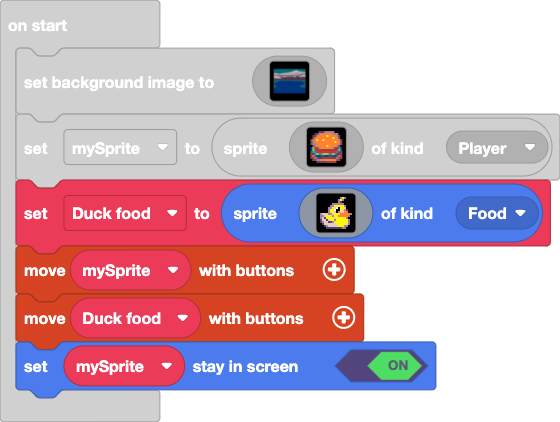
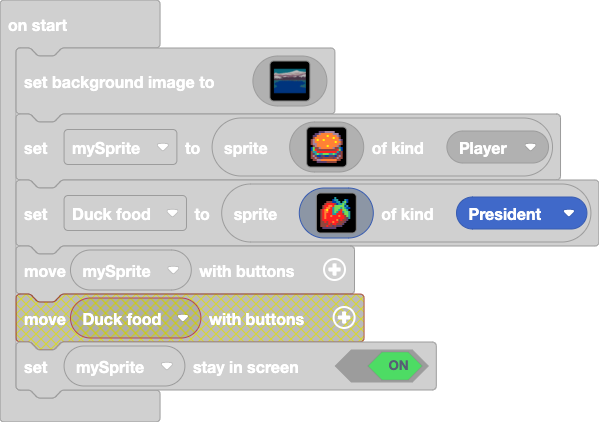
Update main.blocks, main.ts

diff --git a/main.ts b/main.ts
@@ -1,3 +1,6 @@
+namespace SpriteKind {
+    export const President = SpriteKind.create()
+}
 scene.setBackgroundImage(img`
     6666666666666666666666666666666666666666666666666666666666666666666666666666666666666666666666666666666666666666666666666666666666666666666666666666666666666666
     6666666666666666666666666666666666666666666666666666666666666666666666666666666666666666666666666666666666666666666666666666666666666666666666666666666666666666
@@ -139,23 +142,22 @@ let mySprite = sprites.create(img`
     . . . c c c c c e e e e e . . . 
     `, SpriteKind.Player)
 let Duck_food = sprites.create(img`
-    . . . . . . . . . . b 5 b . . . 
-    . . . . . . . . . b 5 b . . . . 
-    . . . . . . . . . b c . . . . . 
-    . . . . . . b b b b b b . . . . 
-    . . . . . b b 5 5 5 5 5 b . . . 
-    . . . . b b 5 d 1 f 5 5 d f . . 
-    . . . . b 5 5 1 f f 5 d 4 c . . 
-    . . . . b 5 5 d f b d d 4 4 . . 
-    b d d d b b d 5 5 5 4 4 4 4 4 b 
-    b b d 5 5 5 b 5 5 4 4 4 4 4 b . 
-    b d c 5 5 5 5 d 5 5 5 5 5 b . . 
-    c d d c d 5 5 b 5 5 5 5 5 5 b . 
-    c b d d c c b 5 5 5 5 5 5 5 b . 
-    . c d d d d d d 5 5 5 5 5 d b . 
-    . . c b d d d d d 5 5 5 b b . . 
-    . . . c c c c c c c c b b . . . 
-    `, SpriteKind.Food)
+    . . . . . . . 6 . . . . . . . . 
+    . . . . . . 8 6 6 . . . 6 8 . . 
+    . . . e e e 8 8 6 6 . 6 7 8 . . 
+    . . e 2 2 2 2 e 8 6 6 7 6 . . . 
+    . e 2 2 4 4 2 7 7 7 7 7 8 6 . . 
+    . e 2 4 4 2 6 7 7 7 6 7 6 8 8 . 
+    e 2 4 5 2 2 6 7 7 6 2 7 7 6 . . 
+    e 2 4 4 2 2 6 7 6 2 2 6 7 7 6 . 
+    e 2 4 2 2 2 6 6 2 2 2 e 7 7 6 . 
+    e 2 4 2 2 4 2 2 2 4 2 2 e 7 6 . 
+    e 2 4 2 2 2 2 2 2 2 2 2 e c 6 . 
+    e 2 2 2 2 2 2 2 4 e 2 e e c . . 
+    e e 2 e 2 2 4 2 2 e e e c . . . 
+    e e e e 2 e 2 2 e e e c . . . . 
+    e e e 2 e e c e c c c . . . . . 
+    . c c c c c c c . . . . . . . . 
+    `, SpriteKind.President)
 controller.moveSprite(mySprite)
-controller.moveSprite(Duck_food)
 mySprite.setStayInScreen(true)
